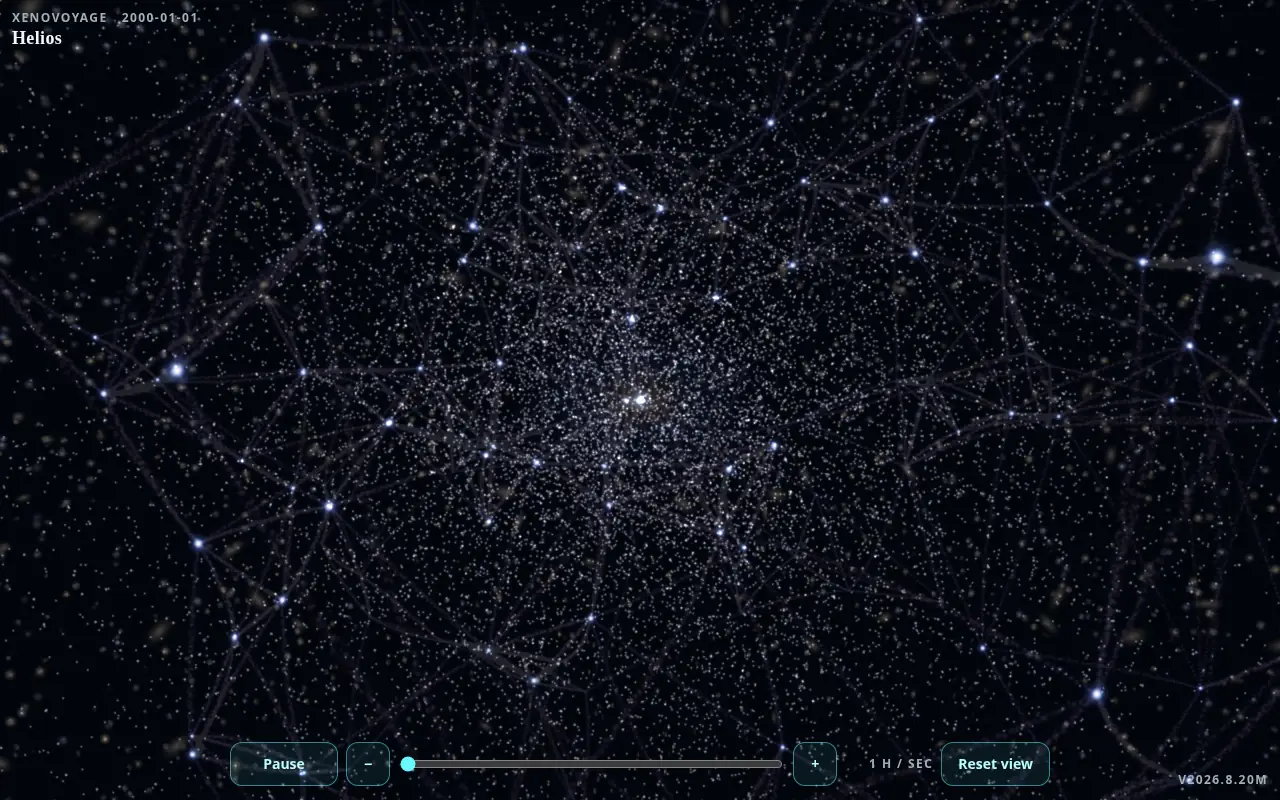
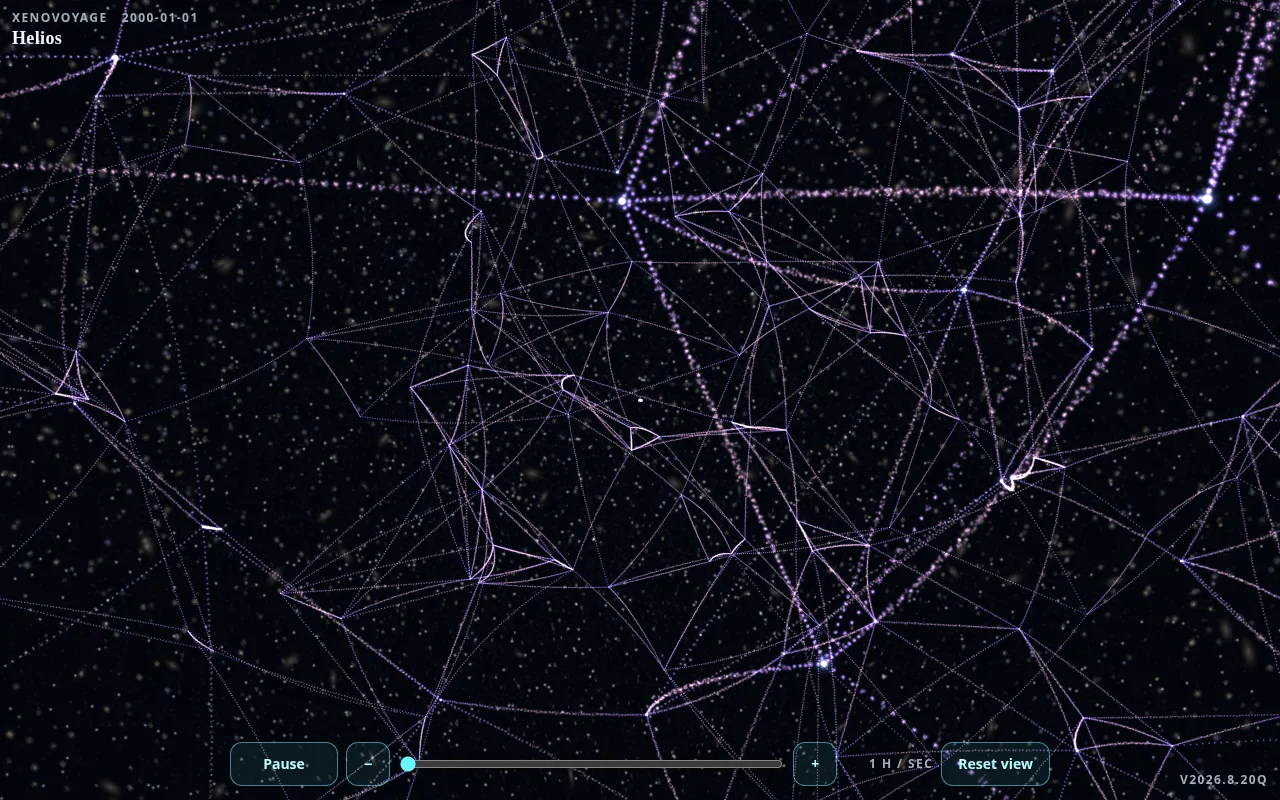
Restore volume-filling cosmic web and a hard solar→MW cut (#21)
* Restore volume-filling web and a hard solar-to-MW cut

p left the web camera outside the local home-hub cloud and
crossfaded the Milky Way in while the orrery was still leaving.
Web look now sits inside the filled web; the last universe look
stays the outside CMB sphere. MW appears at full brightness only
after the orrery is a Sun pin.

* Recapture web and Milky Way stills for v2026.8.20q

Web still is the volume-filling filament look. Milky Way still is the
full-bright disk after the hard solar pin handoff. Solar in-system
stills unchanged.

---------

diff --git a/js/galaxy.js b/js/galaxy.js
@@ -2,8 +2,9 @@
  * Extra-zoom map: a luminous 3D Milky Way, nearby galaxies against a
  * far-galaxy sky that stays up through Virgo and the filled web, a short
  * Local Group, Virgo with more clusters around it, a colored cosmic web
- * that stays volume-filling at larger scale, and a CMB / observable-universe
- * sphere you leave and can see from outside.
+ * that stays volume-filling from inside, and a CMB / observable-universe
+ * sphere you leave and can see from outside. The web look is that filled
+ * volume. The last universe look is the outside sphere. They do not mix.
  *
  * Catalog kpc / Mpc / Gpc stay in js/galaxy-catalog.js. Visual compression
  * lives here and in CONFIG. This map is a different representation from
@@ -163,14 +164,11 @@ export function armPointKpc(radiusKpc, betaDeg, zKpc = 0) {
 }
 
 export function galaxyOpacity(distance) {
-  if (distance <= CONFIG.galaxyFadeStart) return 0;
-  if (distance >= CONFIG.galaxyFadeEnd) return 1;
-  const t = (distance - CONFIG.galaxyFadeStart) / (CONFIG.galaxyFadeEnd - CONFIG.galaxyFadeStart);
-  return t * t * (3 - 2 * t);
+  return distance >= CONFIG.handoffViewDistance ? 1 : 0;
 }
 
 export function solarOpacity(distance) {
-  return 1 - galaxyOpacity(distance);
+  return distance < CONFIG.handoffViewDistance ? 1 : 0;
 }
 
 /**
@@ -197,7 +195,7 @@ export function orbitLineOpacity(distance) {
 
 export function scaleLayer(distance) {
   if (distance <= CONFIG.solarMaxDistance) return "solar";
-  if (distance < CONFIG.galaxyFadeEnd) return "transition";
+  if (distance < CONFIG.handoffViewDistance) return "transition";
   if (distance < CONFIG.neighborhoodViewDistance) return "milkyway";
   if (distance < CONFIG.localGroupViewDistance) return "neighborhood";
   if (distance < CONFIG.virgoViewDistance) return "localgroup";
@@ -245,12 +243,9 @@ export function webOpacity(distance) {
   return smoothstep01((distance - start) / (CONFIG.webViewDistance - start));
 }
 
+/** Volume-filling web is the web subject. CMB stays a later outside shell. */
 export function universeOpacity(distance) {
-  const start = CONFIG.webViewDistance
-    + (CONFIG.universeViewDistance - CONFIG.webViewDistance) * 0.22;
-  if (distance < start) return 0;
-  if (distance >= CONFIG.universeViewDistance) return 1;
-  return smoothstep01((distance - start) / (CONFIG.universeViewDistance - start));
+  return webOpacity(distance);
 }
 
 /** Far-galaxy sphere stays up through Virgo and the filled web; CMB replaces it later. */
@@ -378,7 +373,7 @@ export function virgoCameraAim() {
   };
 }
 
-/** Oblique enough to read the web as a 3D volume, not a flat graph. */
+/** Inside the filled web so filaments read as a volume, not an outside ball. */
 export function webCameraAim() {
   return { elevation: 0.38, azimuth: 1.05 };
 }

diff --git a/js/config.js b/js/config.js
@@ -14,7 +14,7 @@
  * compressed-Mpc, or compressed-Gpc mappings, not AU.
  */
 export const CONFIG = Object.freeze({
-  VERSION: "v2026.8.20p",
+  VERSION: "v2026.8.20q",
   earthRadiusKm: 6371,
   auKm: 149597870.7,
   visualScale: 2.6,
@@ -52,13 +52,15 @@ export const CONFIG = Object.freeze({
   neighborhoodViewDistance: 24000,
   localGroupViewDistance: 40000,
   virgoViewDistance: 75000,
-  webViewDistance: 240000,
+  // Inside the volume-filling web (o's universe camera), not outside the local ball.
+  webViewDistance: 480000,
   // Far enough outside the CMB shell that the sphere reads as a ball.
   universeViewDistance: 2000000,
   galaxyFadeStart: 1880,
+  // Extra-zoom pin shrink after the hard MW cut. Not a solar/MW opacity blend.
   galaxyFadeEnd: 11000,
-  // Mid solar→MW fade: Kuiper still reads, planet labels already gone.
-  handoffViewDistance: 6000,
+  // Orrery is already a Sun pin; MW then appears at full brightness.
+  handoffViewDistance: 4000,
   // kpc → scene for the Milky Way disk. Not the AU orbit curve.
   mwScale: 82,
   mwPower: 0.95,

diff --git a/README.md b/README.md
@@ -1,6 +1,6 @@
 # Helios
 
-[![Version v2026.8.20p](https://img.shields.io/badge/version-v2026.8.20p-66f7ff)](VERSION.txt)
+[![Version v2026.8.20q](https://img.shields.io/badge/version-v2026.8.20q-66f7ff)](VERSION.txt)
 [![MIT](https://img.shields.io/badge/license-MIT-a77bff)](LICENSE)
 
 An interactive 3D orrery of the solar system.
@@ -21,11 +21,11 @@ An interactive 3D orrery of the solar system.
 
 ![Virgo Cluster with the Local Group nearby and more clusters appearing around them.](docs/assets/helios-virgo.webp)
 
-![Local cosmic web: filaments and cluster hubs, with the Milky Way as the home hub.](docs/assets/helios-web.webp)
+![Volume-filling cosmic web: neuron / SDSS filaments through the local volume.](docs/assets/helios-web.webp)
 
 ![Observable universe: the CMB last-scattering sphere seen from outside, with the filled web inside.](docs/assets/helios-universe.webp)
 
-Tap or click a world — including the Sun — to focus it. Drag to orbit. Pinch or scroll to zoom. Play, pause, and change the speed of time from the bar at the bottom. Click empty space to close the body card. Zoom out past the solar overview and the orrery shrinks to a Sun pin in the Orion Arm on a luminous Milky Way disk. Nearby galaxies including Andromeda sit against a far-galaxy sky that stays up through the Local Group and Virgo. Only after a long colored cosmic web does that sky turn microwave, then an observable-universe sphere you can leave and see from outside. We sit in the Local Group, inside Laniakea; Virgo is the nearest large cluster, not our cluster in the same sense.
+Tap or click a world — including the Sun — to focus it. Drag to orbit. Pinch or scroll to zoom. Play, pause, and change the speed of time from the bar at the bottom. Click empty space to close the body card. Zoom out past the solar overview and the orrery shrinks to a Sun pin; then a luminous Milky Way arm and disk take over at full brightness. The Sun pin sits on the Orion Arm. Nearby galaxies including Andromeda sit against a far-galaxy sky that stays up through the Local Group and Virgo. Only after a long colored cosmic web does that sky turn microwave, then an observable-universe sphere you can leave and see from outside. We sit in the Local Group, inside Laniakea; Virgo is the nearest large cluster, not our cluster in the same sense.
 
 Helios is a local page: no accounts, no telemetry, and no CDN.
 
